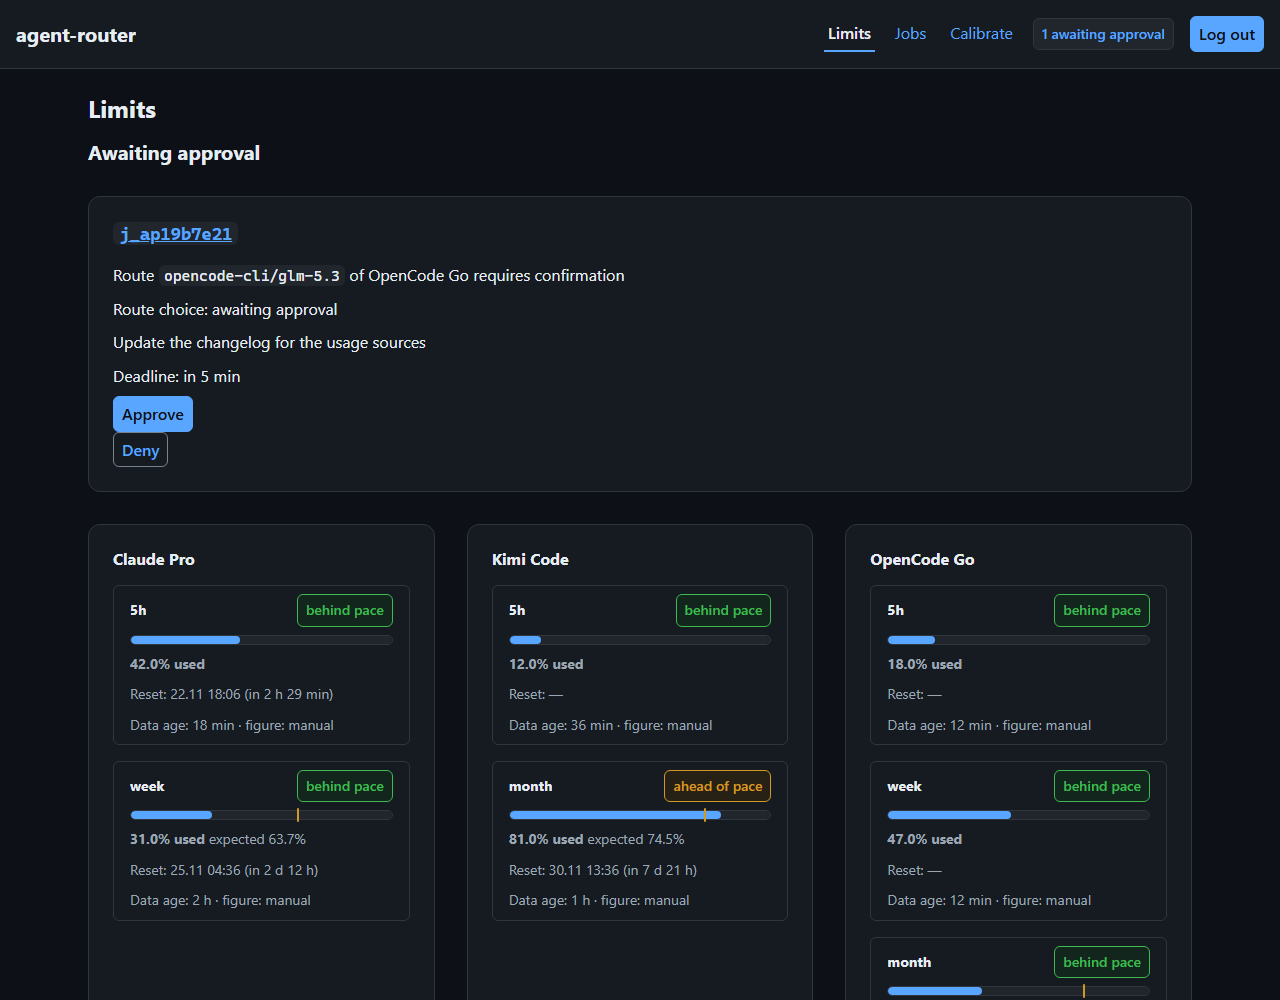
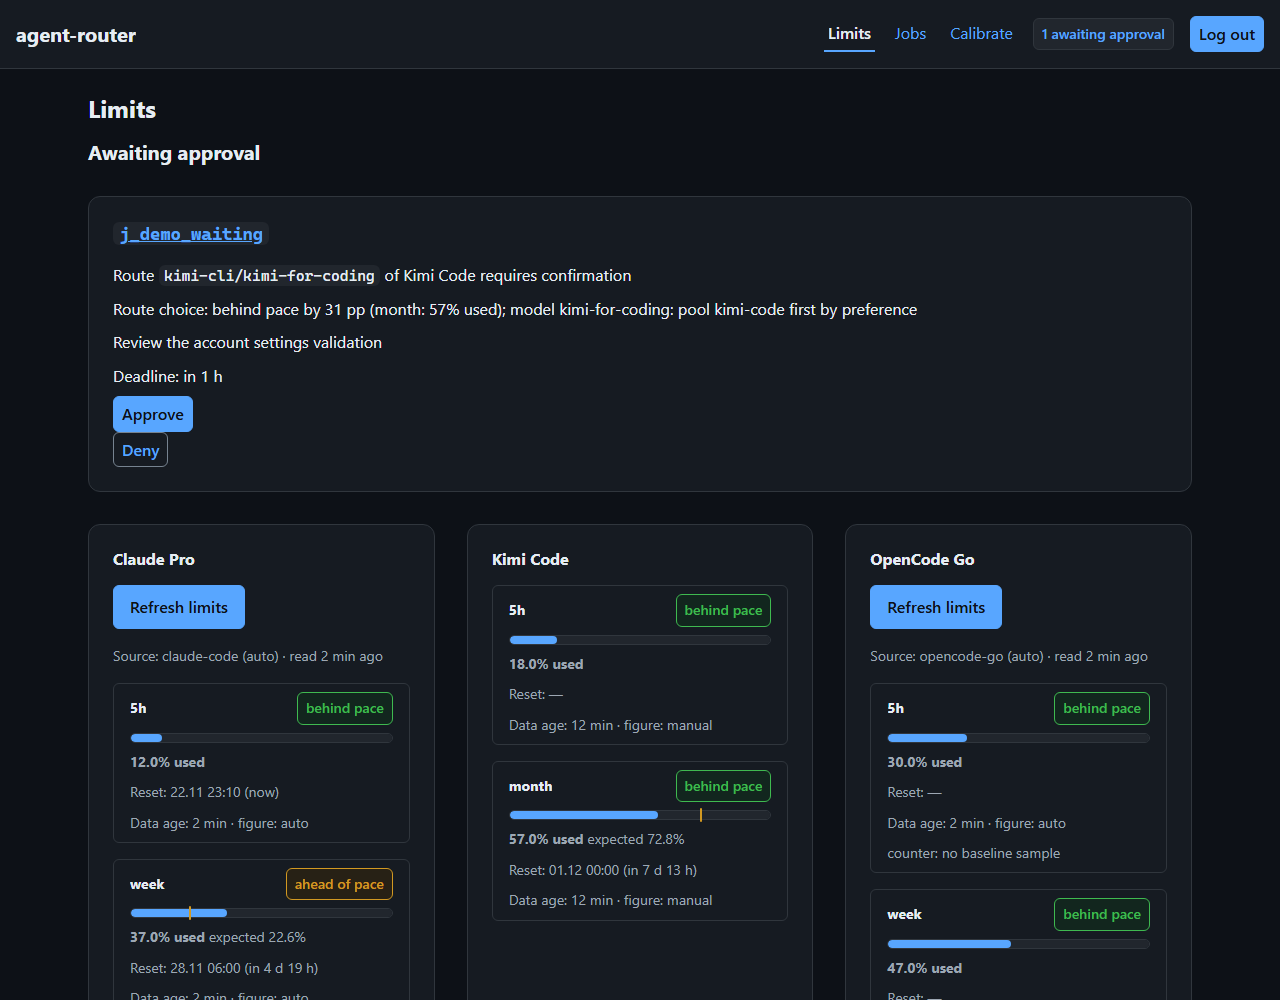
Refresh README visuals for the Claude Code route
Regenerate the terminal recordings and dashboard screenshots now that
claude-cli/sonnet is enabled and Claude Code usage is read on a schedule,
and add the Claude Code /usage source to the architecture diagram.

diff --git a/README.md b/README.md
@@ -37,7 +37,7 @@ gateway that keeps your subscriptions busy without surprises:
 It is for you if you have two or more subscriptions to agentic coding CLIs (such as Claude Code,
 Kimi Code, OpenCode or Cline) and an orchestrator agent that delegates jobs to others.
 
-![Terminal: agent-router advice ranks routes by how far each pool is behind its pace, agent-router status shows usage of every pool window](https://raw.githubusercontent.com/kdenischenko/open-agent-router/main/docs/assets/demo.svg)
+![Terminal: agent-router advice ranks enabled OpenCode, Kimi Code and Claude Code routes by pace; agent-router status shows Claude Code and OpenCode Go windows filled automatically by scheduled usage sources and Kimi Code windows filled manually](https://raw.githubusercontent.com/kdenischenko/open-agent-router/main/docs/assets/demo.svg)
 
 ## How is this different from LiteLLM, OpenRouter or switching by hand?
 
@@ -90,7 +90,7 @@ agent-router wait <job-id>
 A job that needs approval returns at once with
 `job awaits approval: agent-router approve <id> before <time>, then agent-router wait <id>`.
 
-![Terminal: a job is submitted with run --no-wait, a human approves it, wait prints the result, rate records the rating and status shows the pool usage](https://raw.githubusercontent.com/kdenischenko/open-agent-router/main/docs/assets/cycle.svg)
+![Terminal: a job on the opencode-cli/glm-5.3 route is submitted with run --no-wait, approved, awaited and rated; status then shows automatic Claude Code and OpenCode Go usage figures and manual Kimi Code figures](https://raw.githubusercontent.com/kdenischenko/open-agent-router/main/docs/assets/cycle.svg)
 
 Every route in the `init` template has `confirm = true`, so a job waits until you approve it
 with `approve` or in the dashboard. Set `confirm = false` on a route to let its jobs start
@@ -124,7 +124,7 @@ repository and copy the `agent-router-delegate` folder of your harness into its 
 
 <picture>
   <source media="(prefers-color-scheme: dark)" srcset="https://raw.githubusercontent.com/kdenischenko/open-agent-router/main/docs/assets/architecture-dark.svg">
-  <img src="https://raw.githubusercontent.com/kdenischenko/open-agent-router/main/docs/assets/architecture-light.svg" alt="Architecture: an orchestrator agent submits jobs through the agent-router CLI or the MCP server and you use the web dashboard; the gateway HTTP API checks tokens, the dispatcher gets a tier from the optional classifier (local or cloud models) and a route from the route policy, which ranks pools by pace urgency from the ledger; the runner starts a coding agent CLI in the job directory. Usage figures reach the ledger from manual calibration, the Claude Code status line, the OpenCode Go usage API, the opencode stats counter and the harness journal">
+  <img src="https://raw.githubusercontent.com/kdenischenko/open-agent-router/main/docs/assets/architecture-light.svg" alt="Architecture: an orchestrator agent submits jobs through the agent-router CLI or the MCP server and you use the web dashboard; the gateway HTTP API checks tokens, the dispatcher gets a tier from the optional classifier (local or cloud models) and a route from the route policy, which ranks pools by pace urgency from the ledger; the runner starts a coding agent CLI in the job directory. Usage figures reach the ledger from manual calibration, the Claude Code status line, scheduled Claude Code /usage reads, the OpenCode Go usage API, the opencode stats counter and the harness journal">
 </picture>
 
 You submit a job: a prompt, a directory, a mode and optional hints. The gateway estimates
@@ -165,7 +165,7 @@ in [docs/CLASSIFIER.md](https://github.com/kdenischenko/open-agent-router/blob/m
 
 <picture>
   <source media="(prefers-color-scheme: dark)" srcset="https://raw.githubusercontent.com/kdenischenko/open-agent-router/main/docs/assets/dashboard-dark.png">
-  <img src="https://raw.githubusercontent.com/kdenischenko/open-agent-router/main/docs/assets/dashboard-light.png" alt="Dashboard home page: a job awaiting approval with Approve and Deny, then one card per pool with usage bars, pace badges, reset countdowns, data age and where each figure comes from">
+  <img src="https://raw.githubusercontent.com/kdenischenko/open-agent-router/main/docs/assets/dashboard-light.png" alt="Dashboard home page: a job awaiting approval, then pool cards showing automatic Claude Code /usage and OpenCode Go figures read two minutes ago, manual Kimi Code figures, usage bars, pace badges, reset countdowns and data age">
 </picture>
 
 The gateway also serves a dashboard at `http://127.0.0.1:<port>/` (the port is
@@ -192,13 +192,13 @@ The gateway also serves a dashboard at `http://127.0.0.1:<port>/` (the port is
     <td width="50%">
       <picture>
         <source media="(prefers-color-scheme: dark)" srcset="https://raw.githubusercontent.com/kdenischenko/open-agent-router/main/docs/assets/jobs-dark.png">
-        <img src="https://raw.githubusercontent.com/kdenischenko/open-agent-router/main/docs/assets/jobs-light.png" alt="Job list with status, route, caller and search filters and one row per job with its status badge, route, caller, creation time and duration">
+        <img src="https://raw.githubusercontent.com/kdenischenko/open-agent-router/main/docs/assets/jobs-light.png" alt="Job list with filters, one job awaiting approval and finished jobs on Claude Code, Kimi Code and OpenCode routes, with status badges, callers, creation times and durations">
       </picture>
     </td>
     <td width="50%">
       <picture>
         <source media="(prefers-color-scheme: dark)" srcset="https://raw.githubusercontent.com/kdenischenko/open-agent-router/main/docs/assets/job-dark.png">
-        <img src="https://raw.githubusercontent.com/kdenischenko/open-agent-router/main/docs/assets/job-light.png" alt="Job page with the route, caller, mode and tier, a rating form, attempt, token, cost and duration totals, the prompt and final text, and the attempt timeline">
+        <img src="https://raw.githubusercontent.com/kdenischenko/open-agent-router/main/docs/assets/job-light.png" alt="Completed Claude Code job on claude-cli/sonnet with its caller, mode and tier, rating form, attempt, token and duration totals, prompt, final text, changed files and attempt timeline">
       </picture>
     </td>
   </tr>

diff --git a/docs/DESIGN.md b/docs/DESIGN.md
@@ -17,7 +17,7 @@ delegated to a harness.
 
 <picture>
   <source media="(prefers-color-scheme: dark)" srcset="assets/architecture-dark.svg">
-  <img src="assets/architecture-light.svg" alt="Architecture: an orchestrator agent reaches the gateway through the CLI or the MCP server and you through the dashboard; inside the gateway the HTTP API checks tokens, the dispatcher keeps the queue and asks the tier classifier and the route policy, the ledger feeds pace and blocks to the policy, and the runner starts a coding agent CLI; usage figures reach the ledger from calibration, the Claude Code status line, the OpenCode Go usage API, the opencode stats counter and the harness journal">
+  <img src="assets/architecture-light.svg" alt="Architecture: an orchestrator agent reaches the gateway through the CLI or the MCP server and you through the dashboard; inside the gateway the HTTP API checks tokens, the dispatcher keeps the queue and asks the tier classifier and the route policy, the ledger feeds pace and blocks to the policy, and the runner starts a coding agent CLI; usage figures reach the ledger from calibration, the Claude Code status line, scheduled Claude Code /usage reads, the OpenCode Go usage API, the opencode stats counter and the harness journal">
 </picture>
 
 ## Concepts
